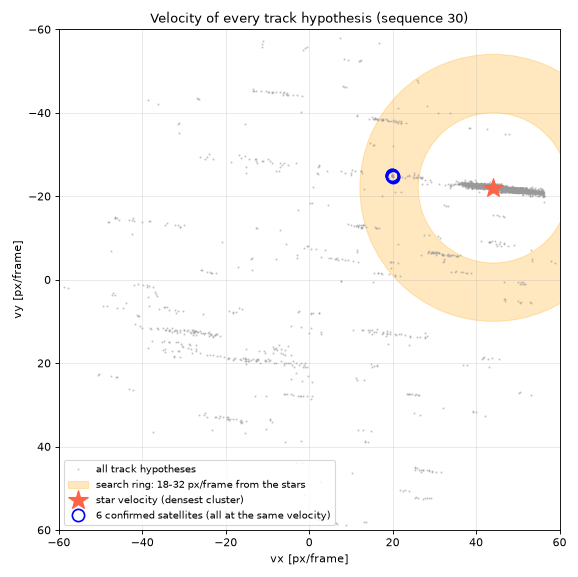
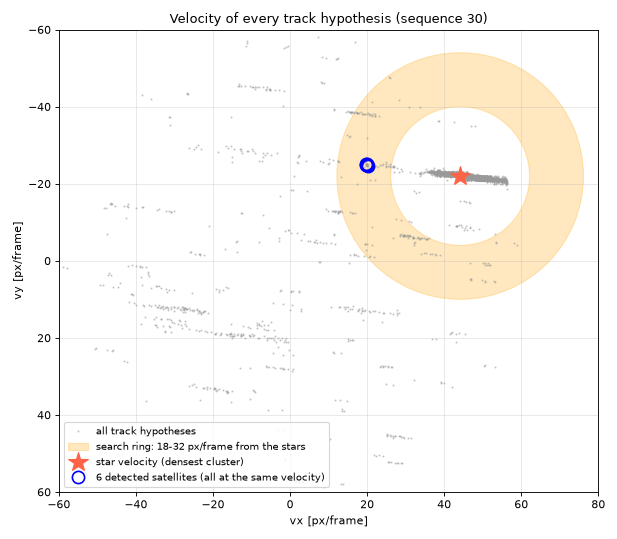
Review pass: accurate claims, honest comparison, stricter checks
- README: measured timings (11.5 s step), reproducibility with submission hash,
  post-hoc leaderboard caveats with the MSE column, corrected physics wording,
  all pipeline rules documented (60 px/frame cap, in-image filter, dedup,
  30-per-frame limit), new known limitation (confirmation on unmasked residual),
  intermediate-version footnote, cross-platform setup steps.
- Comparison scripts now assert exact equality instead of printing booleans.
- Module docstrings, files closed with `with`, full consistent requirements freeze.
- Figures: full search ring visible, legend no longer covers data.
No change to the algorithm; all results identical.

diff --git a/explore/make_figures.py b/explore/make_figures.py
@@ -63,7 +63,7 @@ def fig_star_test(seq=30):
     ax.plot(pts[~is_star, 0], pts[~is_star, 1], "o", mfc="none", mec="lime", ms=8, mew=1.4,
             label=f"kept for satellite search ({(~is_star).sum()})")
     ax.plot(gt[:, 0], gt[:, 1], "s", mfc="none", mec="cyan", ms=14, mew=1.2, label="ground truth satellites")
-    ax.legend(loc="lower right", fontsize=10)
+    ax.legend(loc="upper center", bbox_to_anchor=(0.5, -0.01), ncol=3, fontsize=10, frameon=False)
     ax.set_title(f"Candidates in frame 1 (sequence {seq}) after the per-point star test", fontsize=12)
     fig.savefig(OUT / "step3_star_test.png", dpi=80, bbox_inches="tight", pad_inches=0.15)
 
@@ -79,8 +79,8 @@ def fig_velocities(seq=30):
                          label="search ring: 18-32 px/frame from the stars"))
     ax.plot(*v_star, "*", color="tomato", ms=18, label="star velocity (densest cluster)")
     sv = np.array([v for p0, v, m in final]).reshape(-1, 2)
-    ax.plot(sv[:, 0], sv[:, 1], "o", mfc="none", mec="blue", ms=11, mew=1.5, label=f"{len(sv)} confirmed satellites (all at the same velocity)")
-    ax.set_xlim(-60, 60)
+    ax.plot(sv[:, 0], sv[:, 1], "o", mfc="none", mec="blue", ms=11, mew=1.5, label=f"{len(sv)} detected satellites (all at the same velocity)")
+    ax.set_xlim(-60, 80)
     ax.set_ylim(60, -60)
     ax.set_aspect("equal")
     ax.set_xlabel("vx [px/frame]")

diff --git a/src/test_tracks.py b/src/test_tracks.py
@@ -1,3 +1,8 @@
+"""Check that build_tracks_fast returns the same hypotheses as the reference build_tracks.
+
+Start points and velocities must be exactly equal. Members must lie in the same frames; the candidate
+index inside a frame may differ when two candidates are at exactly the same distance (a tie).
+"""
 import numpy as np
 from PIL import Image
 from pipeline import build_tracks, build_tracks_fast, DATA
@@ -11,6 +16,8 @@ for seq in (1, 3, 30, 72, 144):
         P.append(np.array([[c["x"], c["y"]] for c in find_blobs(resid, noise, k=4)]).reshape(-1, 2))
     old = build_tracks(P)
     new = build_tracks_fast(P)
-    same_tracks = all(np.allclose(a[0], b[0]) and np.allclose(a[1], b[1]) for a, b in zip(old, new))
-    same_frames = all([f for f, _ in a[2]] == [f for f, _ in b[2]] for a, b in zip(old, new))
-    print(seq, len(old) == len(new), same_tracks, same_frames)
+    assert len(old) == len(new), f"sequence {seq}: {len(old)} vs {len(new)} hypotheses"
+    for a, b in zip(old, new):
+        assert np.array_equal(a[0], b[0]) and np.array_equal(a[1], b[1]), f"sequence {seq}: track differs"
+        assert [f for f, _ in a[2]] == [f for f, _ in b[2]], f"sequence {seq}: member frames differ"
+    print(seq, len(old), "hypotheses identical")

diff --git a/src/score_official.py b/src/score_official.py
@@ -1,3 +1,4 @@
+"""Validate submission.json and score it against the test labels with the organizers' own validation.py."""
 import sys
 import json
 import jsonschema
@@ -12,6 +13,7 @@ import validation
 jsonschema.validate = lambda inst, schema: jsonschema.Draft7Validator(schema).validate(inst)
 
 sub = ROOT / "submission.json"
-validation.validate_json(json.load(open(sub)))
+with open(sub) as fp:
+    validation.validate_json(json.load(fp))
 score, mse = validation.compute_score(sub, DATA / "test_anno.json")
 print(f"valid submission   1-F1 {score:.4f}   F1 {1 - score:.4f}   MSE {mse:.2f}")

diff --git a/src/run_test.py b/src/run_test.py
@@ -1,3 +1,4 @@
+"""Predict all 5,120 test sequences in parallel and write submission.json in the official format."""
 import json
 from multiprocessing import Pool
 from pipeline import find_satellites, ROOT
@@ -17,5 +18,6 @@ if __name__ == "__main__":
     with Pool(8) as pool:
         results = pool.map(predict, range(1, 5121))
     submission = [row for rows in results for row in rows]
-    json.dump(submission, open(ROOT / "submission.json", "w"))
+    with open(ROOT / "submission.json", "w") as fp:
+        json.dump(submission, fp)
     print(len(submission), "rows")

diff --git a/src/test_median.py b/src/test_median.py
@@ -1,3 +1,4 @@
+"""Check that the OpenCV median (detect_fast) gives exactly the same residual and noise as scipy (detect)."""
 import numpy as np
 from PIL import Image
 import detect
@@ -8,4 +9,5 @@ for seq, f in [(1, 1), (30, 3), (144, 5)]:
     img = np.array(Image.open(DATA / "train" / str(seq) / f"{f}.png"))
     r1, n1 = detect.residual(img)
     r2, n2 = detect_fast.residual(img)
-    print(seq, f, np.array_equal(r1, r2), n1 == n2)
+    assert np.array_equal(r1, r2) and n1 == n2, f"mismatch in sequence {seq}, frame {f}"
+    print(seq, f, "identical")

diff --git a/src/metric.py b/src/metric.py
@@ -1,3 +1,6 @@
+"""Official SpotGEO metric (as implemented in the organizers' validation.py): per-frame Hungarian matching,
+tau = 10 px, eps = 3 px. F1 from summed TP/FN/FP; MSE summed over sequences.
+"""
 import numpy as np
 from scipy.optimize import linear_sum_assignment
 
@@ -36,6 +39,7 @@ def f1(tp, fn, fp):
     if tp == 0:
         return 0.0
     return 2 * tp / (2 * tp + fn + fp)
+
 
 if __name__ == "__main__":
     print(match_frame([[100, 100]], [[150, 100]]))

diff --git a/src/run_many.py b/src/run_many.py
@@ -1,8 +1,10 @@
+"""Evaluate the pipeline on training sequences 1 to 100 with the official metric."""
 import json
 from pipeline import find_satellites, DATA
 from metric import score_seq, f1
 
-anno = json.load(open(DATA / "train_anno.json"))
+with open(DATA / "train_anno.json") as fh:
+    anno = json.load(fh)
 GT = {}
 for a in anno:
     GT.setdefault(a["sequence_id"], {})[a["frame"]] = a["object_coords"]

diff --git a/src/detect.py b/src/detect.py
@@ -1,3 +1,7 @@
+"""Background removal, noise estimate and connected-component candidates.
+
+residual() is the original scipy version (slow). find_blobs() is shared with detect_fast.py.
+"""
 import numpy as np
 from scipy.ndimage import median_filter, label, find_objects, center_of_mass, maximum
 

diff --git a/src/pipeline.py b/src/pipeline.py
@@ -1,3 +1,6 @@
+"""SpotGEO satellite detection for one 5-frame sequence: find_satellites(seq) returns a list of
+(start position, velocity, members) constant-velocity tracks. See README.md for the stages.
+"""
 from PIL import Image
 import numpy as np
 from pathlib import Path

diff --git a/src/detect_fast.py b/src/detect_fast.py
@@ -1,3 +1,4 @@
+"""Same residual as detect.py, with OpenCV's histogram median instead of scipy's (about 500x faster, identical output)."""
 import numpy as np
 import cv2
 from detect import find_blobs

diff --git a/README.md b/README.md
@@ -2,7 +2,7 @@
 
 A classical, fully explainable pipeline for the ESA Kelvins **SpotGEO** challenge: find faint geostationary satellites in 5-frame sequences of ground-based telescope images, where stars streak across the frame and the satellites are often barely above the noise.
 
-On the official test set (5,120 sequences, scored once with the official toolkit) it reaches **F1 = 0.879**, which would place **6th of 14** on the final leaderboard. The top three entries used ensembles of neural networks. This one uses medians, connected components, voting and a little physics, and runs in about 0.4 s per sequence on a laptop CPU.
+On the official test set (5,120 sequences, scored once with the official toolkit) it reaches **F1 = 0.879**, on par with **6th place of 14** on the 2020 final leaderboard (a post-hoc comparison, see below). The winning entry used an ensemble of 10 U-Net CNNs. This one uses medians, connected components, voting and a little physics, and runs in about 0.4 s per sequence on a laptop CPU.
 
 ![Example: predicted tracks vs. ground truth](docs/example.png)
 
@@ -16,18 +16,25 @@ On the official test set (5,120 sequences, scored once with the official toolkit
 | Train 101 to 300 (held out) | 200 | 1,360 | 335 | 50 | 96.5% | 80.2% | 0.876 | 2,972 |
 | **Official test set (run once)** | **5,120** | **36,580** | **7,970** | **2,085** | **94.6%** | **82.1%** | **0.879** | **71,192** |
 
-Comparison with the [final leaderboard](https://kelvins.esa.int/spot-the-geo-satellites/final-ranking), ranked by 1 − F1:
+Comparison with the [final leaderboard](https://kelvins.esa.int/spot-the-geo-satellites/final-ranking). Teams are ranked by 1 − F1, and MSE is only a tie-breaker:
 
-| Rank | Team | 1 − F1 |
-|---|---|---|
-| 1 | AgeniumSPACE | 0.0517 |
-| 2 | POTLAB@BUAA | 0.0557 |
-| 3 | dwiuzila | 0.0711 |
-| 4 | Magpies | 0.0957 |
-| 5 | Mr huangLTZaaa | 0.1158 |
-| **–** | **this repo** | **0.1208** |
-| 6 | francescodg | 0.1211 |
-| 7 | mhalford | 0.1230 |
+| Rank | Team | 1 − F1 | MSE |
+|---|---|---|---|
+| 1 | AgeniumSPACE | 0.0517 | 33,839 |
+| 2 | POTLAB@BUAA | 0.0557 | 30,542 |
+| 3 | dwiuzila | 0.0711 | 41,198 |
+| 4 | Magpies | 0.0957 | 48,920 |
+| 5 | Mr_huangLTZaaa | 0.1158 | 62,022 |
+| **–** | **this repo** | **0.1208** | **71,192** |
+| 6 | francescodg | 0.1211 | 65,772 |
+| 7 | mhalford | 0.1230 | 69,567 |
+
+Reading this table fairly:
+
+- **The comparison is post hoc.** This work was done years after the challenge, with the challenge paper available and with the test labels published (they were used once, for the final score only).
+- **The F1 is effectively tied with 6th place.** The margin is 0.0003.
+- **The MSE is worse than every team ranked 1 to 7.** Missed and false detections each cost a fixed penalty, and this pipeline misses more satellites.
+- **Leaderboard size:** 14 teams were ranked. The leaderboard page also lists unranked entries that did not submit a method description.
 
 How the evaluation was kept honest:
 
@@ -38,45 +45,46 @@ How the evaluation was kept honest:
 
 ## How it works
 
-Each sequence is 5 grayscale frames of 640 × 480. The telescope tracks the Earth's rotation, so GEO satellites drift slowly while the stars sweep across the frame. Most of the pipeline is about getting rid of stars and noise without throwing away faint satellites.
+Each sequence is 5 grayscale frames of 640 × 480. Between frames both the stars and the satellites move across the image, typically by tens of pixels. All the stars move together, and each one leaves a short streak during the exposure. The satellites are point-like and move differently from the stars, because they rotate with the Earth while the stars don't. Most of the pipeline is about getting rid of stars and noise without throwing away faint satellites.
 
 ### 1. Background removal and candidate detection (`detect.py`, `detect_fast.py`)
 
 - **Background:** subtract a 31 × 31 median filter, which removes sky gradients and clouds but keeps small sources.
 - **Noise level:** estimated with iterative sigma clipping, so stars don't inflate it.
 - **Candidates:** pixels above 4σ are grouped into connected components, and each component's intensity-weighted centroid becomes a candidate.
-- **Rejected components:** anything wider than 6 px (a star streak) and anything touching the border.
+- **Rejected components:** anything whose bounding box is longer than 6 px in either direction (a star streak), and anything touching the image border.
 
 ![Raw frame vs. background-subtracted residual](docs/step1_background.png)
 
-*Each raw frame is split into a smooth background and a residual. The background (middle) is the sky glow, a brightness gradient across the field, estimated by a 31 × 31 median filter, which ignores anything as small as a star or a satellite. The residual (right) keeps only compact sources on flat noise, and that is where detection runs.*
+*Train sequence 1, frame 1. Each raw frame is split into a smooth background and a residual. The background (middle) is the sky glow, a brightness gradient across the field, estimated by a 31 × 31 median filter, which ignores anything as small as a star or a satellite. The residual (right) keeps only compact sources on flat noise, and that is where detection runs.*
 
 ### 2. Two physical priors, measured from the labels
 
 Two facts about the training labels drive most of the later decisions:
 
 1. **All satellites in a sequence move with almost the same velocity.** The median spread is 0.2 px/frame, because they all sit on the geostationary belt.
-2. **Their velocity relative to the stars is almost constant, about 26.7 px/frame** (5th to 95th percentile: 21.8 to 27.1). This is the Earth's rotation as seen by the telescope.
+2. **Their velocity relative to the stars is almost constant, about 26.7 px/frame** (5th to 95th percentile: 21.8 to 27.1). This is the Earth's rotation, expressed in this camera's pixels per frame interval, so the number is specific to this dataset. The absolute satellite speed varies much more between sequences, because the stars' apparent motion does.
 
 <p align="center"><img src="docs/step2_velocities.png" width="520" alt="Velocities of all track hypotheses"></p>
 
-*Every pair of candidates gives a velocity hypothesis (grey). The stars form one dense cluster (red star). All six real satellites share a single velocity (blue circle) inside the ring 18 to 32 px/frame away from the stars (orange), which is where the search is restricted.*
+*Every pair of candidates gives a velocity hypothesis (grey). The stars form one dense cluster (red star). The six detected satellites, all of them correct in this sequence, share a single velocity (blue circle) inside the ring 18 to 32 px/frame away from the stars (orange), which is where the search is restricted.*
 
 ### 3. Star velocity and per-point star removal (`pipeline.py`)
 
-- **Track hypotheses:** every pair of candidates in two different frames defines a constant-velocity hypothesis, which is kept if at least 3 frames have a candidate within 1.5 px of its prediction. This is a hypothesize-and-verify scheme in the RANSAC and Hough family.
+- **Track hypotheses:** every pair of candidates in two different frames defines a constant-velocity hypothesis, up to 60 px/frame, which is kept if at least 3 frames have a candidate within 1.5 px of its prediction. This is a hypothesize-and-verify scheme in the RANSAC and Hough family.
 - **Star velocity:** the most common hypothesis velocity, refined with the median of nearby frame-to-frame displacements.
 - **Star test:** a candidate is labelled a star if any other frame has a candidate at the position the star velocity predicts (within 2.5 px). Testing each point individually removes far fewer satellite points than deleting every member of a star-like track.
 
 ![Candidates after the per-point star test](docs/step3_star_test.png)
 
-*Red crosses are candidates identified as stars and removed. Green circles are candidates kept for the satellite search. Cyan squares are the labelled satellites, and all of them survive.*
+*Red crosses are candidates identified as stars and removed. Green circles are candidates kept for the satellite search. Cyan squares are the labelled satellites, and all of them survive. Some kept candidates sit at the ends of star streaks, where a streak breaks into fragments that the star test can't pair. The speed ring and the confirmation step deal with them later.*
 
 ### 4. Satellite tracks (`pipeline.py`)
 
-- **Hypotheses:** constant-velocity hypotheses are rebuilt on the remaining points.
+- **Hypotheses:** constant-velocity hypotheses are rebuilt on the remaining points, with a 2 px tolerance.
 - **Speed ring:** only hypotheses whose speed relative to the stars lies in 18 to 32 px/frame are kept (prior 2).
-- **Merging:** near-duplicate tracks are merged.
+- **Inside the image:** a track must stay inside the frame in all 5 frames.
+- **Deduplication:** when two tracks are within 5 px of each other on average, only the one with more members is kept.
 - **Confirmation from the pixels:**
   - A track found in all 5 frames is accepted.
   - Otherwise, the 3 × 3 residual sum is measured at the predicted position in every frame where no candidate was found. The track is accepted only if every one of those frames shows at least 2σ of signal.
@@ -92,7 +100,7 @@ When at least one satellite is confirmed, its velocity predicts the velocity of 
 
 ![Shift-and-add stacking reveals a faint satellite](docs/step5_stacking.png)
 
-*Each panel is a 41 × 41 px window centred on the predicted position, on the same noise scale. The satellite is barely distinguishable in single frames, but stands out clearly once the five frames are aligned along its velocity and summed.*
+*Train sequence 59. Each panel is a 41 × 41 px window centred on the predicted position, on the same noise scale. In four of the five frames this satellite peaks below the 4σ detection threshold, so it is never detected as a track. Once the five frames are aligned along its velocity and summed, it stands out clearly.*
 
 ### Progression on the tuning set
 
@@ -101,45 +109,59 @@ When at least one satellite is confirmed, its velocity predicts the velocity of 
 | Baseline: 5σ detection, vote, delete star-track members | 684 | 321 | 66 | 0.779 |
 | + relative-speed ring 18 to 32 px/frame | 675 | 330 | 20 | 0.794 |
 | + detection threshold 4σ | 745 | 260 | 60 | 0.823 |
+| + a 3-frame track needs a 4-frame partner at the same velocity | 745 | 260 | 45 | 0.830 |
 | + per-point star test with refined star velocity | 805 | 200 | 50 | 0.866 |
-| + confirmation from pixel signal | 860 | 145 | 30 | 0.908 |
+| + confirmation from pixel signal (replaces the partner rule) | 860 | 145 | 30 | 0.908 |
 | + shift-and-add stacking | **885** | **120** | **30** | **0.922** |
+
+The intermediate versions are not kept in the repository. The table records the scores measured at each step during development, and only the final row is reproducible from `src/`.
 
 ### Speed
 
-The first working version took about 21 s per sequence, which meant about 30 hours for the test set. Three changes left every output bit-identical, each checked with a unit test (`test_median.py`, `test_tracks.py`) and a full rerun:
+The first working version took about 21 s per sequence, which meant about 30 hours for the test set. Three changes made it about 50× faster without changing any result. After each one, the full run on the tuning set gave exactly the same TP, FN, FP and MSE. The two changes that replace a computation also have comparison scripts that assert exact equality with the original code:
+
+- `test_median.py` checks the residual image and noise on 3 frames.
+- `test_tracks.py` checks every hypothesis's start point and velocity on 5 sequences.
 
 | Change | Time per sequence |
 |---|---|
-| Compute the background once instead of twice | 21 s → 13 s |
-| OpenCV's histogram median (`cv2.medianBlur`) with explicit reflect padding instead of `scipy.ndimage.median_filter` | 13 s → 2.8 s |
+| Compute the background once instead of twice | 21 s → 11.5 s |
+| OpenCV's histogram median (`cv2.medianBlur`) with symmetric padding (identical to scipy's `reflect` mode) instead of `scipy.ndimage.median_filter` | 11.5 s → 2.8 s |
 | Vectorized hypothesis building with `scipy.spatial.cKDTree` | 2.8 s → **0.4 s** |
 
-With 8 worker processes, the whole test set runs in a few minutes.
+With 8 worker processes, the whole test set runs in about 5 minutes. Timings are from a laptop with a 20-thread CPU.
+
+**Reproducibility:** on the author's machine (Windows 11, Python 3.13), a fresh clone installed from `requirements.txt` reproduces the tuning-set numbers above. It also produces a byte-identical test submission, with SHA-256 `9d7ca4bd…ff96d881`. Other platforms may differ in the last floating-point digits.
 
 ## Design notes
 
 **Why not a Kalman filter?** With only 5 frames and a constant-velocity model, a Kalman filter reduces to a least-squares line fit. Fitting is not the hard part. The hard part is data association: deciding which of about 190 candidates per frame belong together. Exhaustive pairwise hypotheses plus voting solve that directly.
 
-**Some "false alarms" are probably real satellites.** Several false-positive tracks in the training set move at exactly the shared velocity of the labelled satellites in the same sequence (for example train sequences 1 and 84). Random noise has no reason to pick that velocity. These are most likely faint satellites that the human labellers missed, so the measured precision is a lower bound.
+**Some "false alarms" are probably real satellites.** Several false-positive tracks in the training set move at exactly the shared velocity of the labelled satellites in the same sequence (for example train sequences 1 and 84). Random noise has no reason to pick that velocity. These are most likely faint satellites that the human labellers missed, so the measured precision may be somewhat underestimated.
 
 **Known failure modes:**
 
 - **Sequences with no confirmed satellite get no stacking.** Running the stack over the whole speed ring instead flooded the results with noise peaks.
-- **Satellites that move unusually fast relative to the stars are dropped by the speed ring.** One example is train sequence 4, at 38.6 px/frame.
+- **Satellites that move unusually fast relative to the stars are dropped by the speed ring.** One example is train sequence 4, at about 38 px/frame.
 - **Satellites that overlap a star streak can be erased by the streak mask.**
-- **Three test sequences (1040, 2353, 4047) produced 20 to 30 predictions per frame for 2 to 3 real objects.** This accounts for several hundred of the test false positives. It is left unfixed on purpose: fixing it after looking at test results would be tuning on the test set.
+- **The pixel confirmation measures the unmasked residual.** If a missing-frame prediction lands on a star streak, the streak's light passes the 2σ test. Stacking uses streak-masked frames, but confirmation does not, which is a likely source of false positives.
+- **Three test sequences (1040, 2353, 4047) flooded with false detections.** Each hit the challenge's limit of 30 predictions per frame (enforced in `run_test.py`) against 2 to 3 real objects. Together they account for 435 of the 2,085 test false positives.
+
+These are left unfixed on purpose: changing the method after seeing test results would be tuning on the test set.
 
 **About the official MSE:** the official `validation.py` differs from the challenge paper. It adds up unsquared distances, and it sums the per-sequence MSEs instead of averaging them. `src/metric.py` follows the code, since that is what produced the leaderboard.
 
 ## Running it
 
+Tested with Python 3.13.
+
 ```bash
 python -m venv .venv
-.venv/Scripts/pip install -r requirements.txt     # on Linux or macOS: .venv/bin/pip
+source .venv/bin/activate       # Windows PowerShell: .venv\Scripts\Activate.ps1
+pip install -r requirements.txt
 ```
 
-Download the [SpotGEO dataset](https://doi.org/10.5281/zenodo.4432143) and unpack it so the layout is `data/SpotGEOv2/{train,test}/<sequence>/<frame>.png`, with `train_anno.json` and `test_anno.json` next to the folders. Then run from `src/`:
+Download `SpotGEOv2.zip` from the [SpotGEO dataset](https://doi.org/10.5281/zenodo.4432143) and unzip it into `data/`, so the layout is `data/SpotGEOv2/{train,test}/<sequence>/<frame>.png`, with `train_anno.json` and `test_anno.json` next to the folders. Then run from `src/`:
 
 ```bash
 cd src
@@ -154,16 +176,18 @@ python score_official.py    # validate and score with the official kit (see belo
 
 ```
 src/
-  detect.py          background, noise, connected-component candidates (reference version)
-  detect_fast.py     same results, OpenCV median (used by the pipeline)
+  detect.py          original background (scipy median) and find_blobs (candidates), shared by both versions
+  detect_fast.py     same background with the OpenCV median (used by the pipeline)
   pipeline.py        star velocity, star test, tracks, confirmation, stacking
+                     (build_tracks is the readable reference, build_tracks_fast the one used)
   metric.py          official F1 and MSE, per frame and per sequence
   run_many.py        evaluate on training sequences
   run_test.py        parallel prediction on the test set, writes the submission file
   score_official.py  run the official validator and scorer
-  test_median.py     unit test: fast median == reference median
-  test_tracks.py     unit test: fast hypothesis builder == reference
-explore/             early exploration scripts and the README figures (make_figure.py, make_figures.py)
+  test_median.py     asserts: fast median == original median
+  test_tracks.py     asserts: fast hypothesis builder == reference
+explore/             early exploration scripts and the README figures
+                     (make_example_figure.py, make_figures.py)
 docs/                figures
 ```
 
